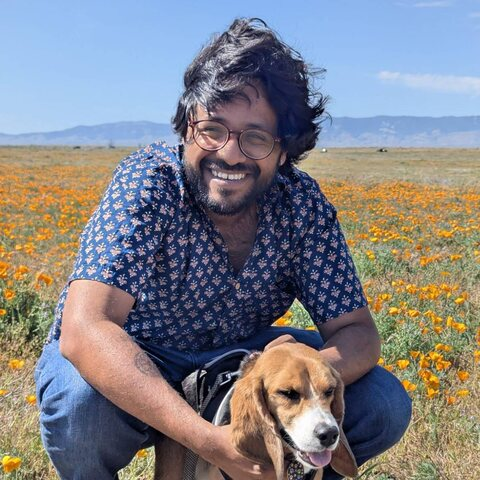
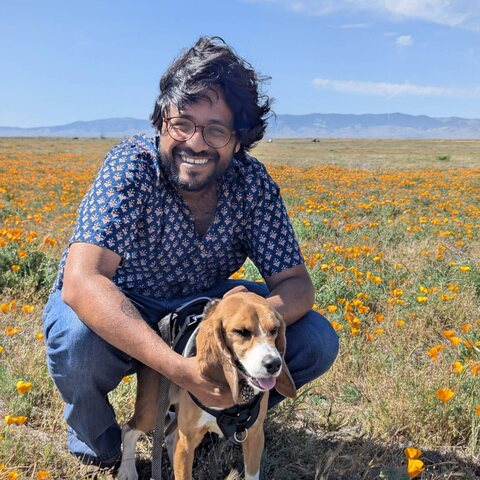
Zoom the header portrait out to show more of the photo
Claude-Session: https://claude.ai/code/session_018SXTzYp694E6jZxxvDGgW8

diff --git a/index.html b/index.html
@@ -44,8 +44,8 @@
   <main id="main" class="wrap">
     <header class="masthead">
       <picture>
-        <source type="image/webp" srcset="/assets/img/portrait.webp?v=071cd6b6">
-        <img class="portrait" src="/assets/img/portrait.jpg?v=cae8da02" width="480" height="480" alt="Bhargav D Sanketi crouching in a field of orange poppies with his beagle">
+        <source type="image/webp" srcset="/assets/img/portrait.webp?v=f17ea790">
+        <img class="portrait" src="/assets/img/portrait.jpg?v=b6c06d26" width="480" height="480" alt="Bhargav D Sanketi crouching in a field of orange poppies with his beagle">
       </picture>
       <h1 class="name">Bhargav D <span class="nowrap">Sanketi<span class="name__suffix">, PhD</span></span></h1>
       <p class="tagline">How tissues build themselves. How they break. How to rewrite them.</p>
